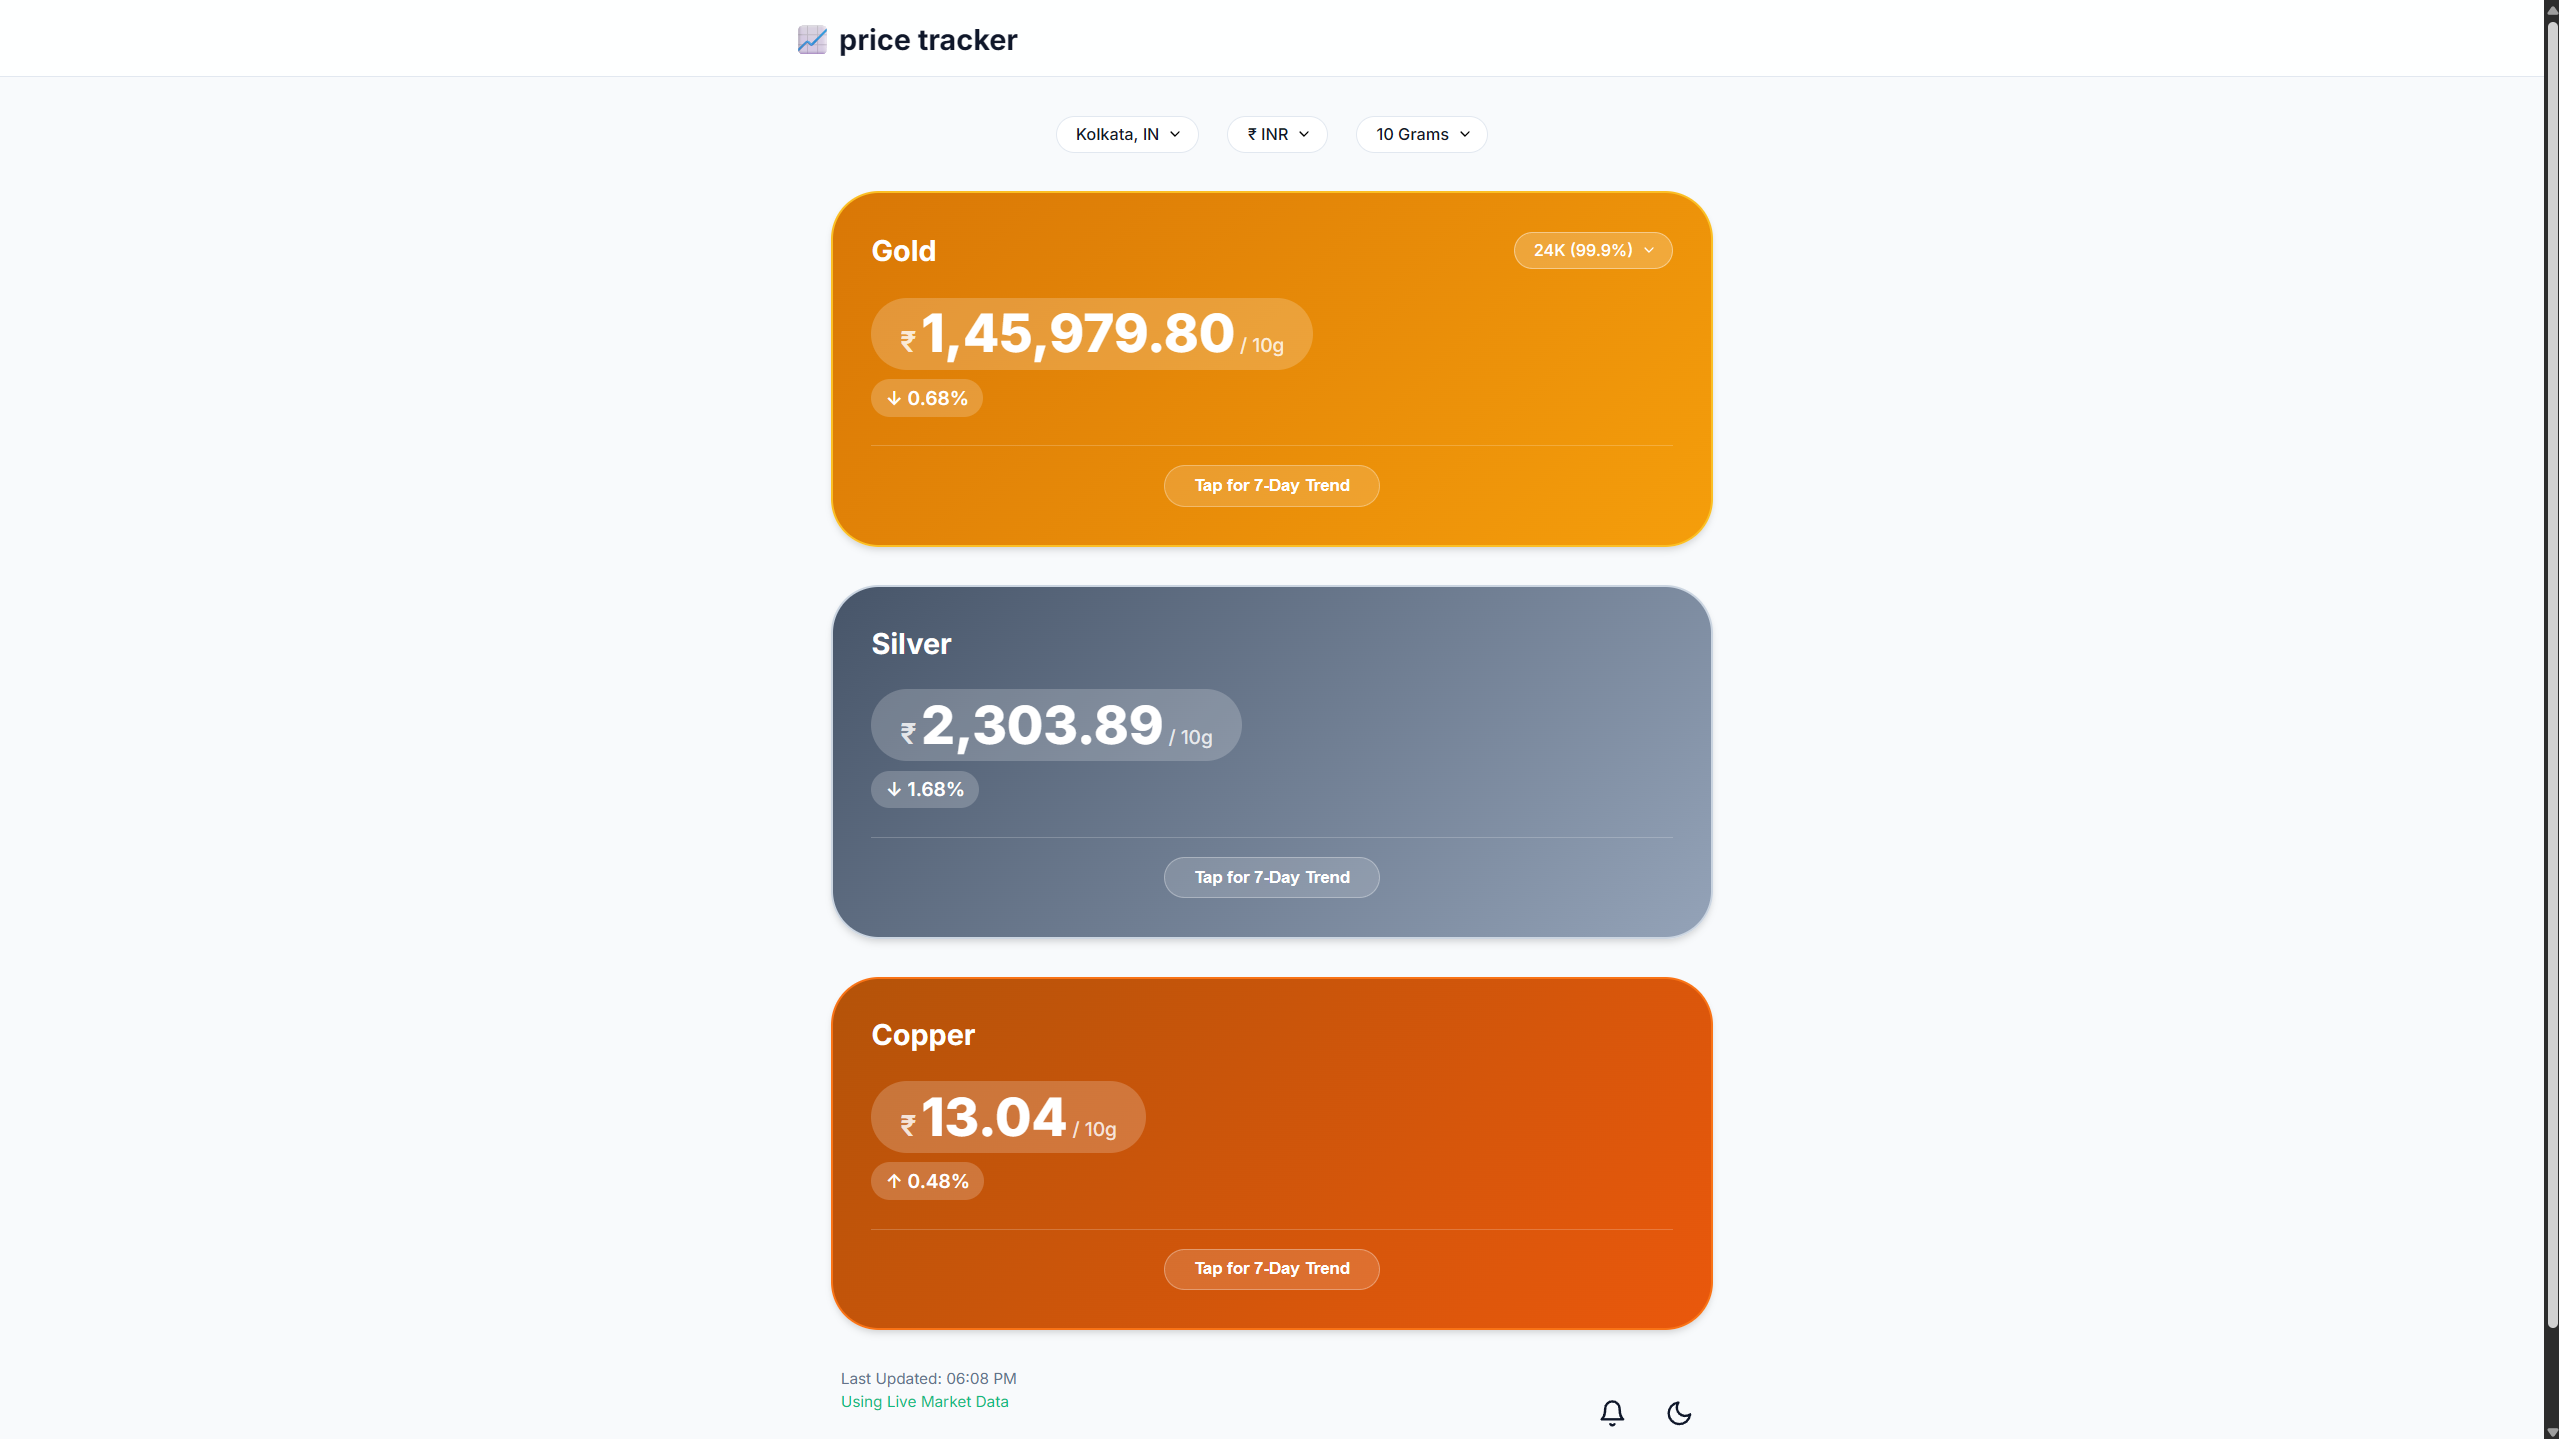
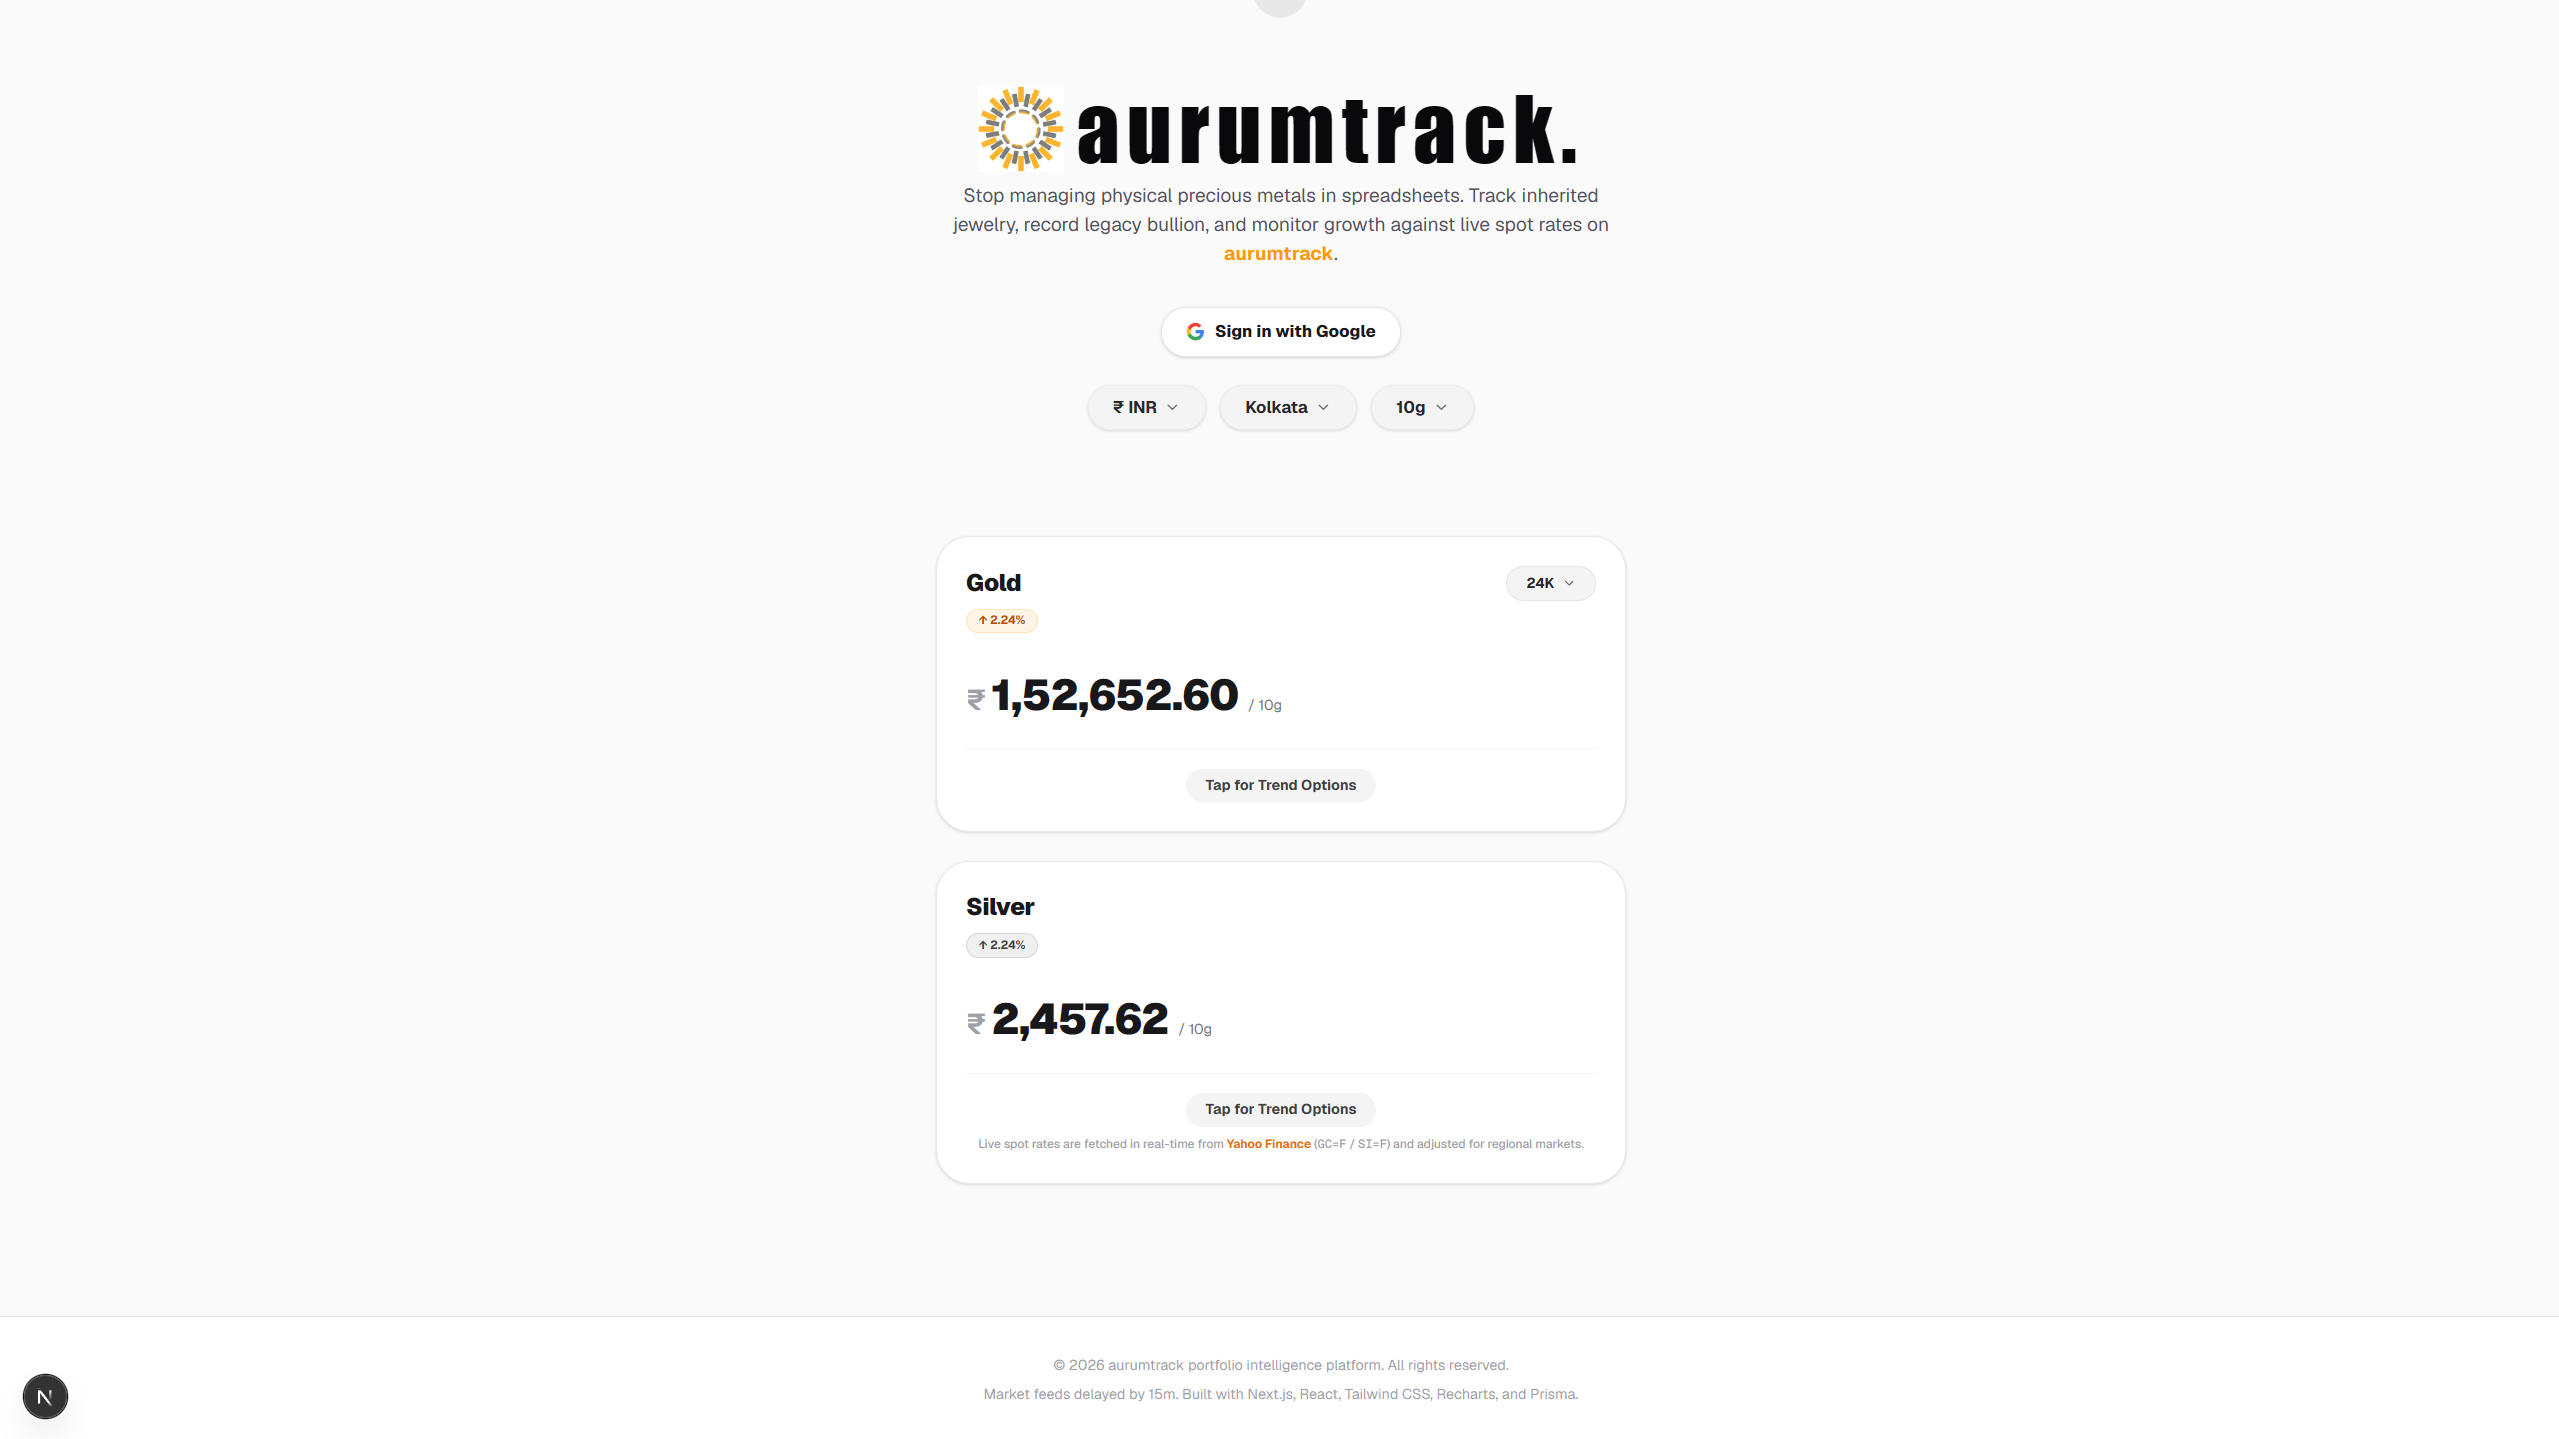
Rename Project 11 to aurumcalculator

diff --git a/src/data/projectsData.ts b/src/data/projectsData.ts
@@ -25,10 +25,7 @@ import {
   SiSocketdotio,
   SiFirebase,
   SiStreamlit,
-  SiHtml5,
-  SiCss3,
-  SiJavascript,
-  SiChartdotjs,
+  SiPostgresql,
 } from "react-icons/si";
 import { TbApi } from "react-icons/tb";
 
@@ -235,8 +232,8 @@ export const projectsData = [
   },
   {
     id: 11,
-    title: "PriceTracker",
-    desc: "A lightweight, mobile-first web app displaying real-time gold, silver, and copper prices. Defaults to Kolkata, India with multi-location support. Gold adapts across 18K–24K purity levels for everyday relevance. Uses a scraping-based backend instead of paid APIs, keeping it cost-efficient. Fast-loading and minimal UI designed for quick access to essential commodity data.",
+    title: "aurumcalculator",
+    desc: "aurumcalculator is a precious metals portfolio intelligence platform that helps users track, analyze, and grow their Gold and Silver wealth. Users can monitor live market prices, record purchases from any point in history, track jewelry and bullion holdings, reconstruct portfolio performance, calculate gains and losses, create price alerts, and visualize long-term wealth growth through brokerage-style analytics.",
     image: project11,
     genre: "Web",
     links: [
@@ -248,16 +245,14 @@ export const projectsData = [
       {
         icon: IoMdOpen,
         text: "Live",
-        url: "https://pricetracker-sooty.vercel.app/",
+        url: "https://aurumcalculator.vercel.app/",
       },
     ],
     tech_used: [
-      { icon: SiHtml5, name: "HTML5" },
-      { icon: SiCss3, name: "CSS3" },
-      { icon: SiJavascript, name: "JavaScript" },
-      { icon: SiChartdotjs, name: "Chart.js" },
-      { icon: SiPython, name: "Python" },
-      { icon: SiFlask, name: "Flask" },
+      { icon: SiNextdotjs, name: "Next.js" },
+      { icon: SiReact, name: "React" },
+      { icon: SiNodedotjs, name: "Node.js" },
+      { icon: SiPostgresql, name: "PostgreSQL" },
     ],
   },
 ];
